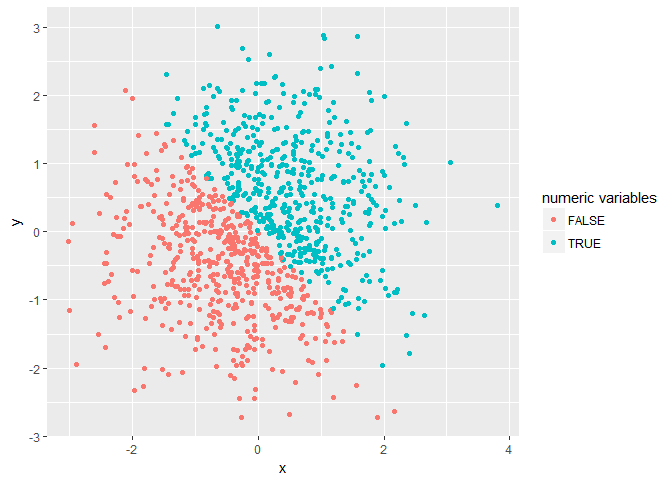
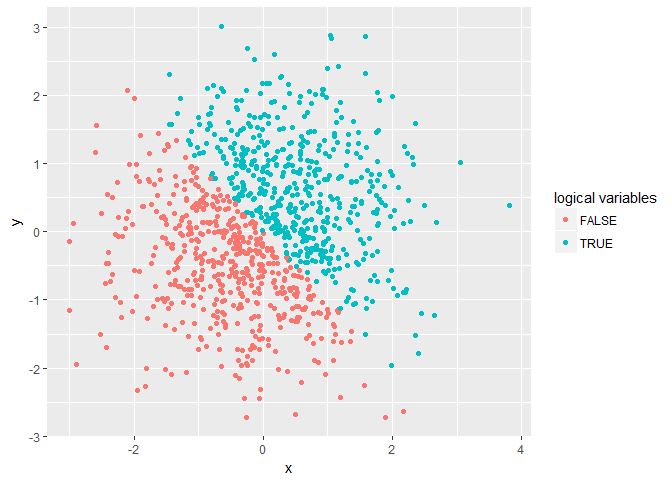
Fixed a variable name error in ggplot

diff --git a/YuelinLong-p8105_hw1_yl3181.md b/YuelinLong-p8105_hw1_yl3181.md
@@ -96,7 +96,7 @@ Dataframe Description:
 
 ``` r
 library(ggplot2)
-ggplot(second_data, aes(x = x, y = y, color = logi_xy)) + geom_point() + labs(color = "numeric variables")  
+ggplot(second_data, aes(x = x, y = y, color = logi_xy)) + geom_point() + labs(color = "logical variables")  
 ```
 
 ![](YuelinLong-p8105_hw1_yl3181_files/figure-markdown_github/unnamed-chunk-5-1.png)
